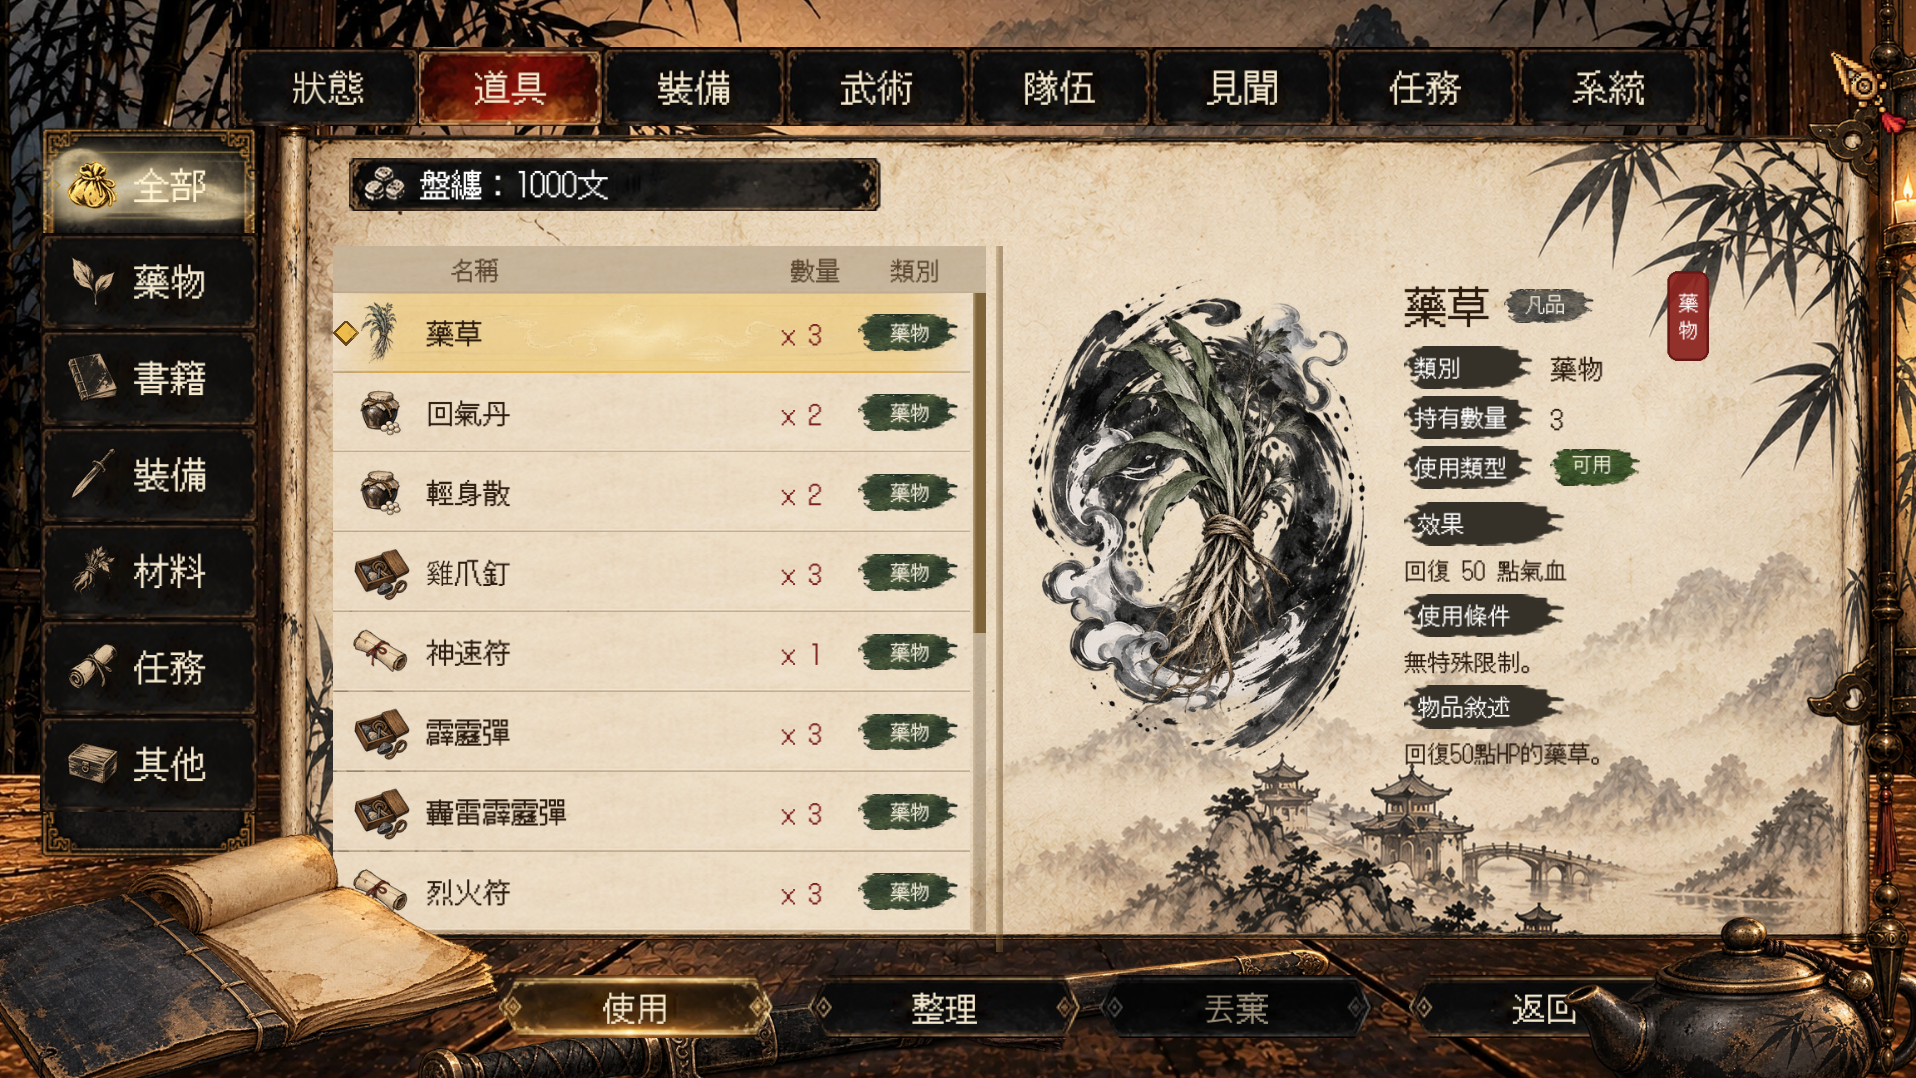
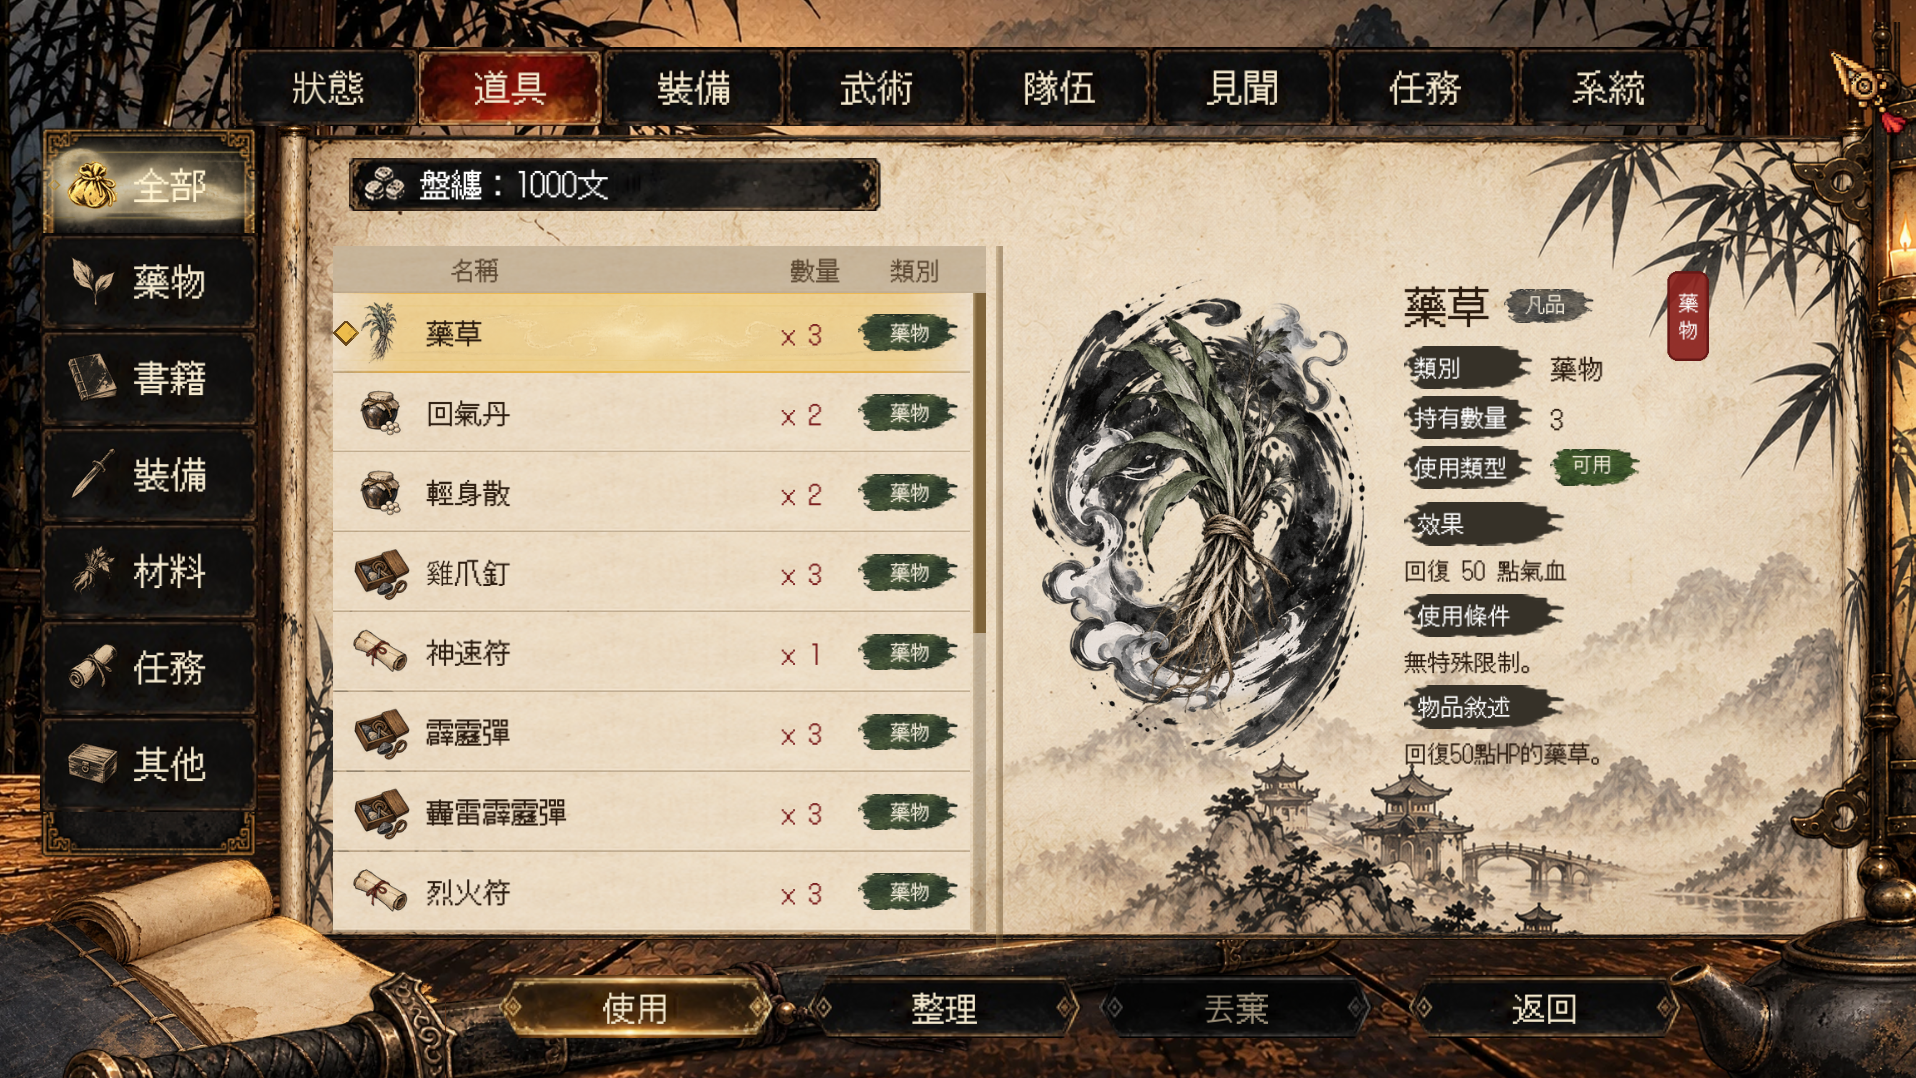
Foreground: demo preset rebuilt from real assets placed per the user's DEMO (sword split left/right across layers, original lantern), buttons above foreground, preset now random between demo and cloth_big

Changed region(s): [[0.0, 0.7653, 0.7082, 1.0], [0.8006, 0.0, 1.0, 1.0], [0.4927, 0.949, 0.5543, 0.9796]]

diff --git a/docs/system_menu/素材收件記錄_道具頁.md b/docs/system_menu/素材收件記錄_道具頁.md
@@ -119,6 +119,7 @@
 ## 前景方案（可切換，2026-10-19）
 `scripts/inventory/StudyShell.gd` 的 `static var preset`（預設 `"concept"`）：
 - **concept（預設）**：概念圖原像素摳圖、概念圖比例 0.689。
-- **demo（備案 1）**：照使用者自己做的 DEMO 版面（左下翻開的書、劍橫在按鈕列後面、右下大茶壺、右緣燈籠）。用的是我們先前做的前景素材（`fg_demo_*.png`，由 `fg_ours_v3/` 複製），位置依 DEMO 截圖目視擺放，**不是**使用者原檔，有誤差。使用者若提供前景圖層（整張透明疊圖）可直接取代。
+- **預設 random**：每次開頁面隨機用備案 1（demo）或備案 2（cloth_big）。
+- **demo（備案 1）**：照使用者 DEMO 版面。用真素材（`fg_ours_v3/` 的書、劍、茶壺；燈籠用使用者原圖 `fg_lantern.png`），位置與縮放由 `tools/align_assets_to_demo.gd` 對 DEMO 量測（燈籠、劍為目視微調），不是摳圖。層級：劍左半＞書＞FRAME＞劍右半（劍裁成左右兩件，右半在 FRAME 與按鈕後面）；茶壺疊在燈籠上；按鈕永遠最上。局部入鏡是刻意的，不得為了完整入鏡改位置與大小。
 - **cloth_big（備案 2）**：概念圖摳圖，左下的劍與青布放大到 0.99，青布上緣（素材上方的紅褐捲物）蓋住分類欄下緣框約 8px。
 截圖：`screens/inv_fg_concept.png`、`inv_fg_demo.png`、`inv_fg_cloth_big.png`。
